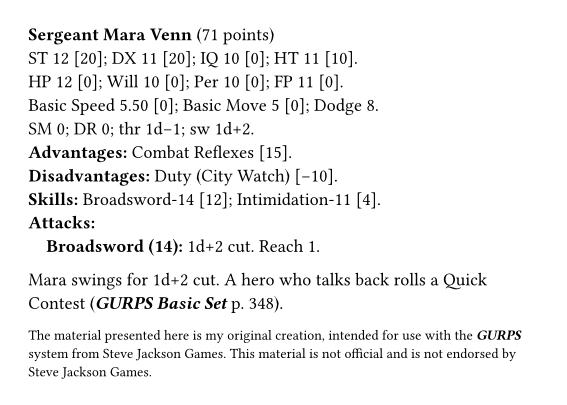
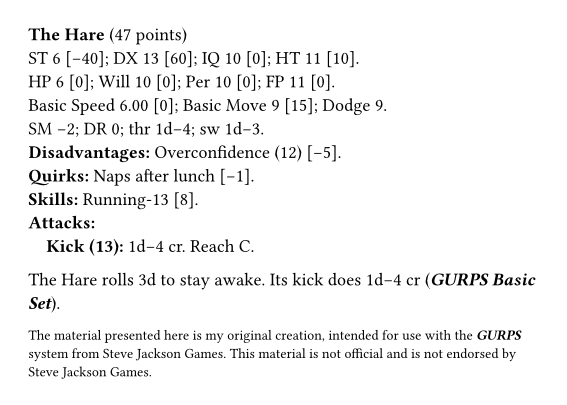
docs: plain Markdown README; state that gurps-ink is no GURPS look-alike

diff --git a/README.md b/README.md
@@ -3,117 +3,94 @@
 [![CI status](https://github.com/natfarleydev/gurps-typst/actions/workflows/ci.yml/badge.svg)](https://github.com/natfarleydev/gurps-typst/actions/workflows/ci.yml)
 ![CodeRabbit Pull Request Reviews](https://img.shields.io/coderabbit/prs/github/natfarleydev/gurps-typst?utm_source=oss&utm_medium=github&utm_campaign=natfarleydev%2Fgurps-typst&labelColor=171717&color=FF570A&link=https%3A%2F%2Fcoderabbit.ai&label=CodeRabbit+Reviews)
 
-Write an unofficial ***GURPS*** sourcebook, adventure or NPC handout in
-[Typst](https://typst.app). `gurps-ink` gives you:
+A [Typst](https://typst.app) package for people who write unofficial
+***GURPS*** material: a sourcebook, an adventure or a handout. It does
+three things:
 
-- stat blocks that calculate their own point costs;
-- dice and damage in the notation of the books;
-- references to ***GURPS*** books in the house style of Steve Jackson Games;
-- the notices that the Steve Jackson Games online policy asks for.
-
-<table>
-<tr>
-<td>
+- **Legal notices.** It gives you the disclaimer and the notice that the
+  Steve Jackson Games [online policy](https://www.sjgames.com/general/online_policy.html)
+  asks for, and writes ***GURPS*** in bold italics.
+- **Dice and book references.** It writes dice (3d, 2d−1), damage from
+  ST, and references such as ***GURPS Magic*** p. 14.
+- **Characters.** It makes stat blocks that calculate their point costs.
 
 ```typ
 #import "@preview/gurps-ink:0.1.0": *
 
-#let mara = character(
-  name: "Sergeant Mara Venn",
-  st: 12, dx: 11, ht: 11,
-  advantage("Combat Reflexes", points: 15),
-  disadvantage("Duty (City Watch)", points: -10),
-  skill("Broadsword", 14, "DX/A"),
-  skill("Intimidation", 11, "Will/A"),
-  melee-attack("Broadsword", 14,
-    [#dice(..swing(12)) cut], reach: "1"),
+#let hare = character(
+  name: "The Hare",
+  st: 6, dx: 13, ht: 11,
+  sm: -2,
+  basic-move: 9,
+  disadvantage("Overconfidence (12)", points: -5),
+  quirk("Naps after lunch"),
+  skill("Running", 13, "HT/A"),
+  melee-attack("Kick", 13, [#dice(..thrust(6)) cr], reach: "C"),
 )
 
-#stat-block(mara)
+#stat-block(hare)
 
-Mara swings for #dice(..mara.sw) cut. A hero
-who talks back rolls a Quick Contest
-(#gurps-book("Basic Set", 348)).
+The Hare rolls #dice(3) to stay awake. Its kick does
+#dice(..hare.thr) cr (#gurps-book("Basic Set")).
 
 #text(size: 7pt, sjgames-disclaimer)
 ```
 
-</td>
-<td><img src="docs/readme-1.png" alt="The stat block, the sentence and the disclaimer that this code makes" width="400"></td>
-</tr>
-</table>
+![The Hare's stat block, a sentence with dice and a book title, and the disclaimer](docs/readme-1.png)
 
-The [manual](docs/manual.pdf) has a tutorial, a how-to guide for each
-task, and a reference for each function.
+## Not a GURPS look-alike
 
-## Start
+`gurps-ink` does not copy the look of ***GURPS*** books. The
+[online policy](https://www.sjgames.com/general/online_policy.html)
+(section II) says that material that looks like a Steve Jackson Games
+product is "over the line". `gurps-ink` follows the typographic rules of
+Steve Jackson Games, from its
+[Authors' Guidelines](https://www.sjgames.com/general/guidelines/authors/style.html)
+and its books: how to write dice, book titles and stat blocks. It sets
+no fonts, colours or page layout. You choose them.
 
-1. Open a project in the [Typst web app](https://typst.app), or
-   [install Typst](https://github.com/typst/typst#installation) on your
-   computer.
-2. Copy the example above into `main.typ`.
-3. Compile it. In the web app, the preview updates when you type. On your
-   computer, run `typst watch main.typ`.
+`gurps-ink` gives you the text of the notices. It does not give legal
+advice. Read the online policy before you publish.
 
-**Note:** `gurps-ink` is not on Typst Universe yet, so the `@preview`
-import fails. Until then, install it on your computer: clone this
-repository and run `just install`. Then write
-`#import "@local/gurps-ink:0.1.0": *`.
+## Documentation
+
+- The [manual](docs/manual.pdf) is a user guide and a reference. It has
+  one chapter for each of the three things above. Each chapter starts
+  with the questions that it answers.
+- [The Tortoise and the Hare](docs/tortoise-and-hare.pdf) is an example
+  one-shot adventure made with `gurps-ink`. Its source is
+  [docs/example/tortoise-and-hare.typ](docs/example/tortoise-and-hare.typ).
+
+## Install
+
+`gurps-ink` is not on Typst Universe yet, so the `@preview` import does
+not work yet. Until then, install it on your computer:
+
+1. Install [Typst](https://github.com/typst/typst#installation) and
+   [just](https://just.systems).
+2. Clone this repository and run `just install`.
+3. In your document, write `#import "@local/gurps-ink:0.1.0": *`.
 
 ## Functions
 
-| Function | Use it to | Example |
-|---|---|---|
-| `gurps` | write ***GURPS*** in bold italics | `#gurps` |
-| `sjgames` | write "Steve Jackson Games" | `#sjgames` |
-| `dice(count, modifier)` | write dice; the result does not break across lines | `#dice(3, -1)` → 3d−1 |
-| `gurps-book(title, pages)` | refer to a ***GURPS*** book | `#gurps-book("Zombies", 3)` → ***GURPS Zombies*** p. 3 |
-| `sjgames-disclaimer` | add the disclaimer of the online policy | `#sjgames-disclaimer` |
-| `sjgames-notice` | add the trademark notice of the online policy | `#sjgames-notice` |
-| `sjgames-game-aid(author)` | add the notice for a free game aid | `#sjgames-game-aid[Jane Doe]` |
-| `thrust(st)`, `swing(st)` | get basic damage for a ST | `#dice(..swing(13))` → 2d−1 |
-| `character(..)` | make a character | see above |
-| `advantage`, `disadvantage`, `perk`, `quirk` | add traits to a character | `advantage("Magery", points: 25, level: 2)` |
-| `skill`, `spell` | add skills and spells to a character | `skill("Stealth", 12, "DX/A")` |
-| `melee-attack`, `ranged-attack` | add attacks to a character | `ranged-attack("Bow", 14, [1d+2 imp], range: "150/200")` |
-| `stat-block(char, ..)` | typeset a character | `#stat-block(mara)` |
-| `level-of(char, name)` | get the level of an attribute, skill or spell | `#level-of(mara, "HP")` |
-| `total-points(char)` | get the point total of a character | `#total-points(mara)` |
+| Function | Use it to |
+|---|---|
+| `sjgames-disclaimer` | add the disclaimer from the online policy |
+| `sjgames-notice` | add the trademark notice from the online policy |
+| `sjgames-game-aid(author)` | add a notice for a free game aid |
+| `gurps`, `sjgames` | write ***GURPS*** in bold italics, or "Steve Jackson Games" |
+| `dice(count, modifier)` | write dice, such as `#dice(2, -1)` for 2d−1 |
+| `thrust(st)`, `swing(st)` | get the basic damage for a ST, such as `#dice(..swing(13))` |
+| `gurps-book(title, pages)` | refer to a ***GURPS*** book, such as `#gurps-book("Magic", 14)` |
+| `character(..)` | make a character and calculate its costs |
+| `advantage`, `disadvantage`, `perk`, `quirk` | add traits to a character |
+| `skill`, `spell` | add skills and spells to a character |
+| `melee-attack`, `ranged-attack` | add attacks to a character |
+| `stat-block(char, ..)` | show a character as a stat block |
+| `level-of(char, name)` | get the level of an attribute, skill or spell |
+| `total-points(char)` | get the point total of a character |
 
-## Point costs
-
-Give the level of each attribute, skill and spell. `character()`
-calculates the point costs. To use a different cost, give it:
-
-<table>
-<tr>
-<td>
-
-```typ
-#import "@preview/gurps-ink:0.1.0": *
-
-#let ogre = character(
-  name: "Ogre",
-  sm: 1,
-  // Give your own cost, e.g. for an SM discount.
-  st: (level: 20, points: 90),
-  // Write a skill cost as points...
-  skill("Brawling", 12, 2),
-  // ...or as attribute and difficulty.
-  skill("Intimidation", 12, "Will/A"),
-  // A skill can be based on another skill.
-  skill("Fast-Draw (Club)", 13, "Brawling/E"),
-)
-#stat-block(ogre)
-```
-
-</td>
-<td><img src="docs/readme-2.png" alt="The ogre's stat block, with the point costs that character() calculated" width="400"></td>
-</tr>
-</table>
-
-If an input is wrong, compilation stops. The error message tells you
-what to change.
+The [manual](docs/manual.pdf) gives the arguments of each function.
 
 ## Contributing
 
@@ -127,7 +104,7 @@ command `tt`), [just](https://just.systems),
 just test          # run the tests
 just update NAME   # accept new output for a picture-comparison test
 just fmt           # format the Typst files
-just doc           # rebuild docs/manual.pdf and the pictures in docs/
+just doc           # rebuild the manual, the example and the pictures
 just ci            # everything CI runs
 ```
 
